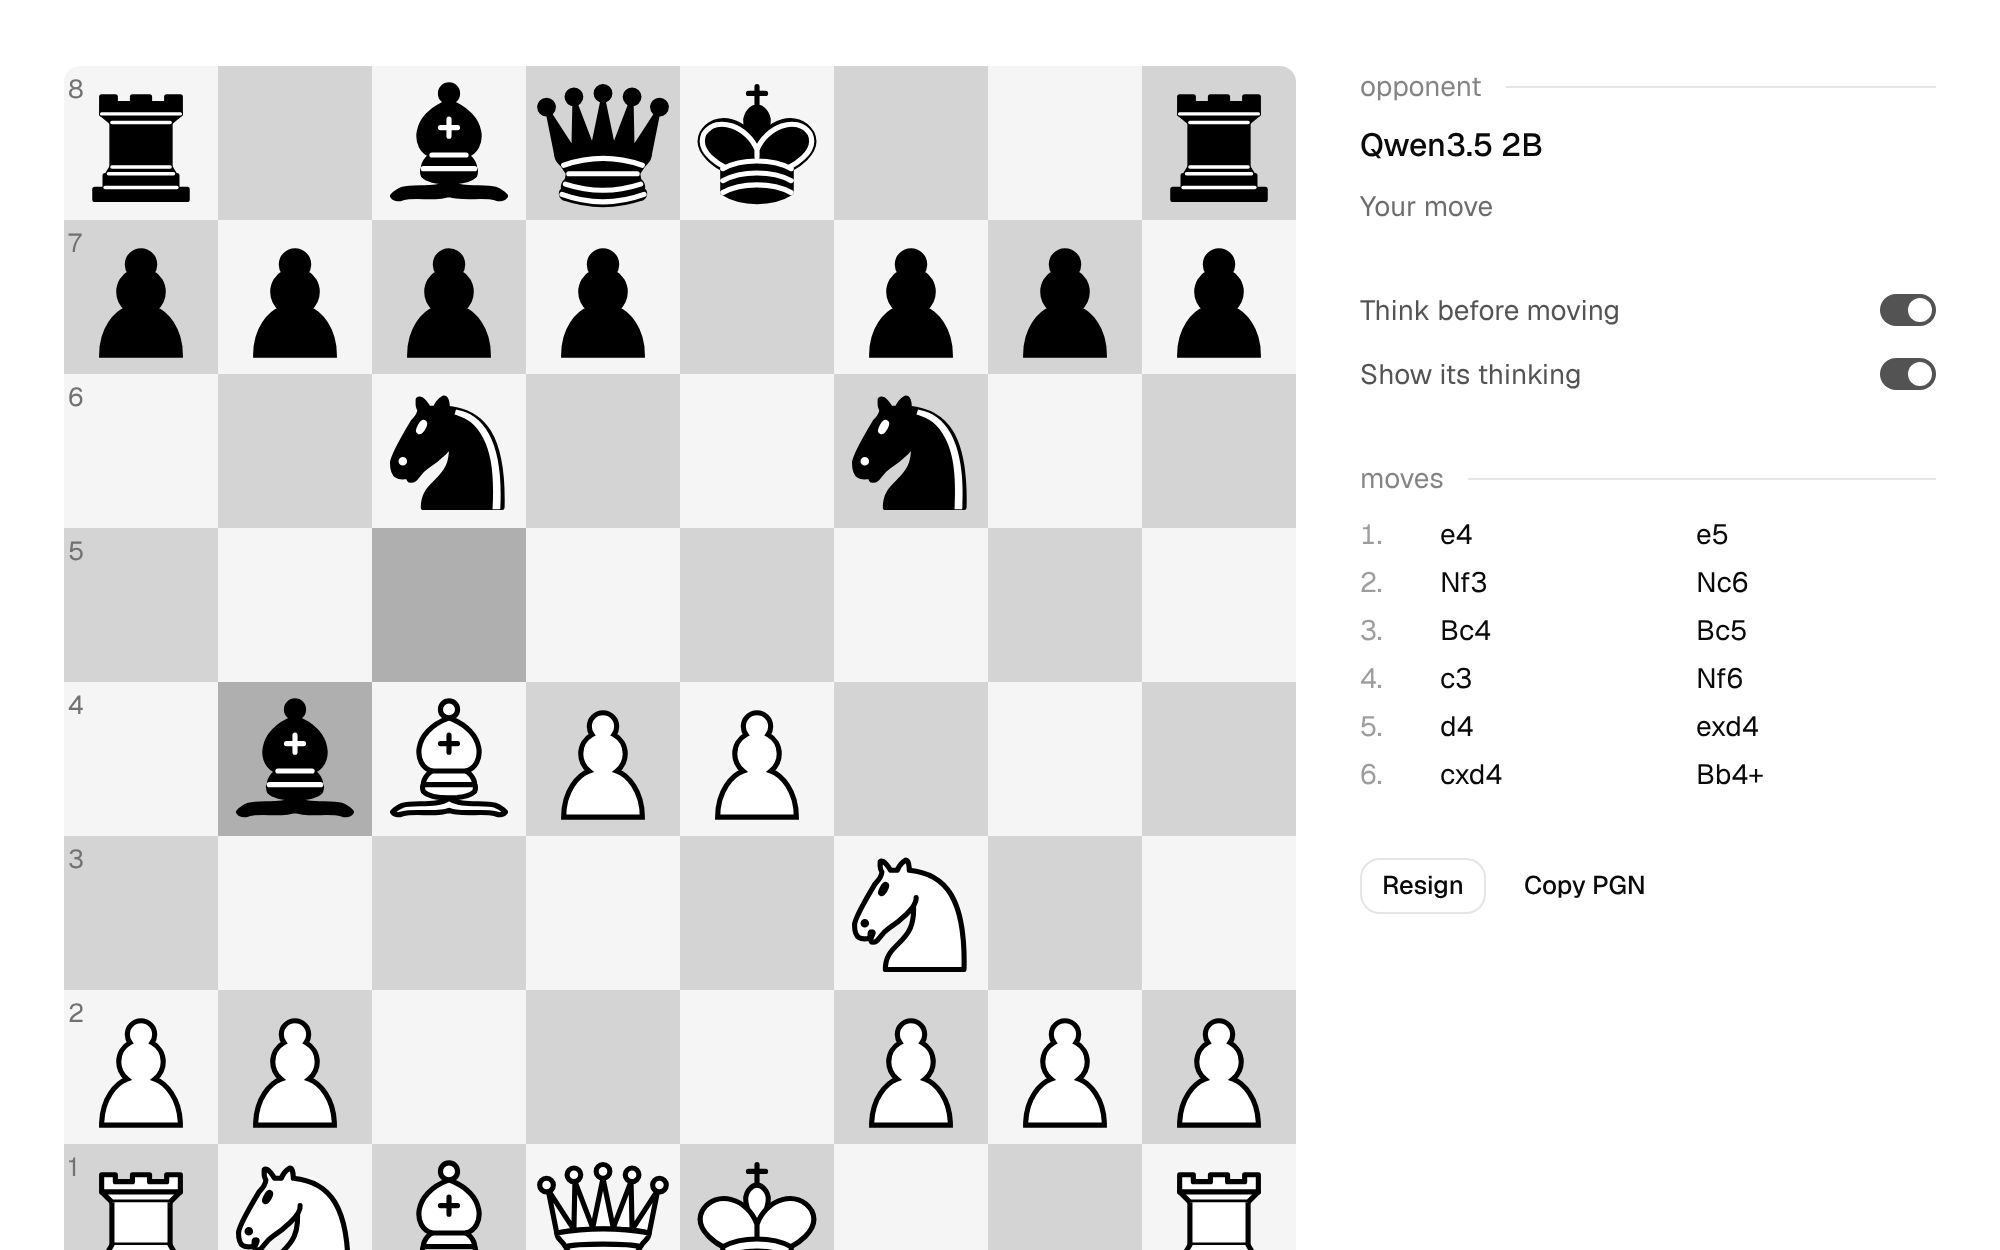
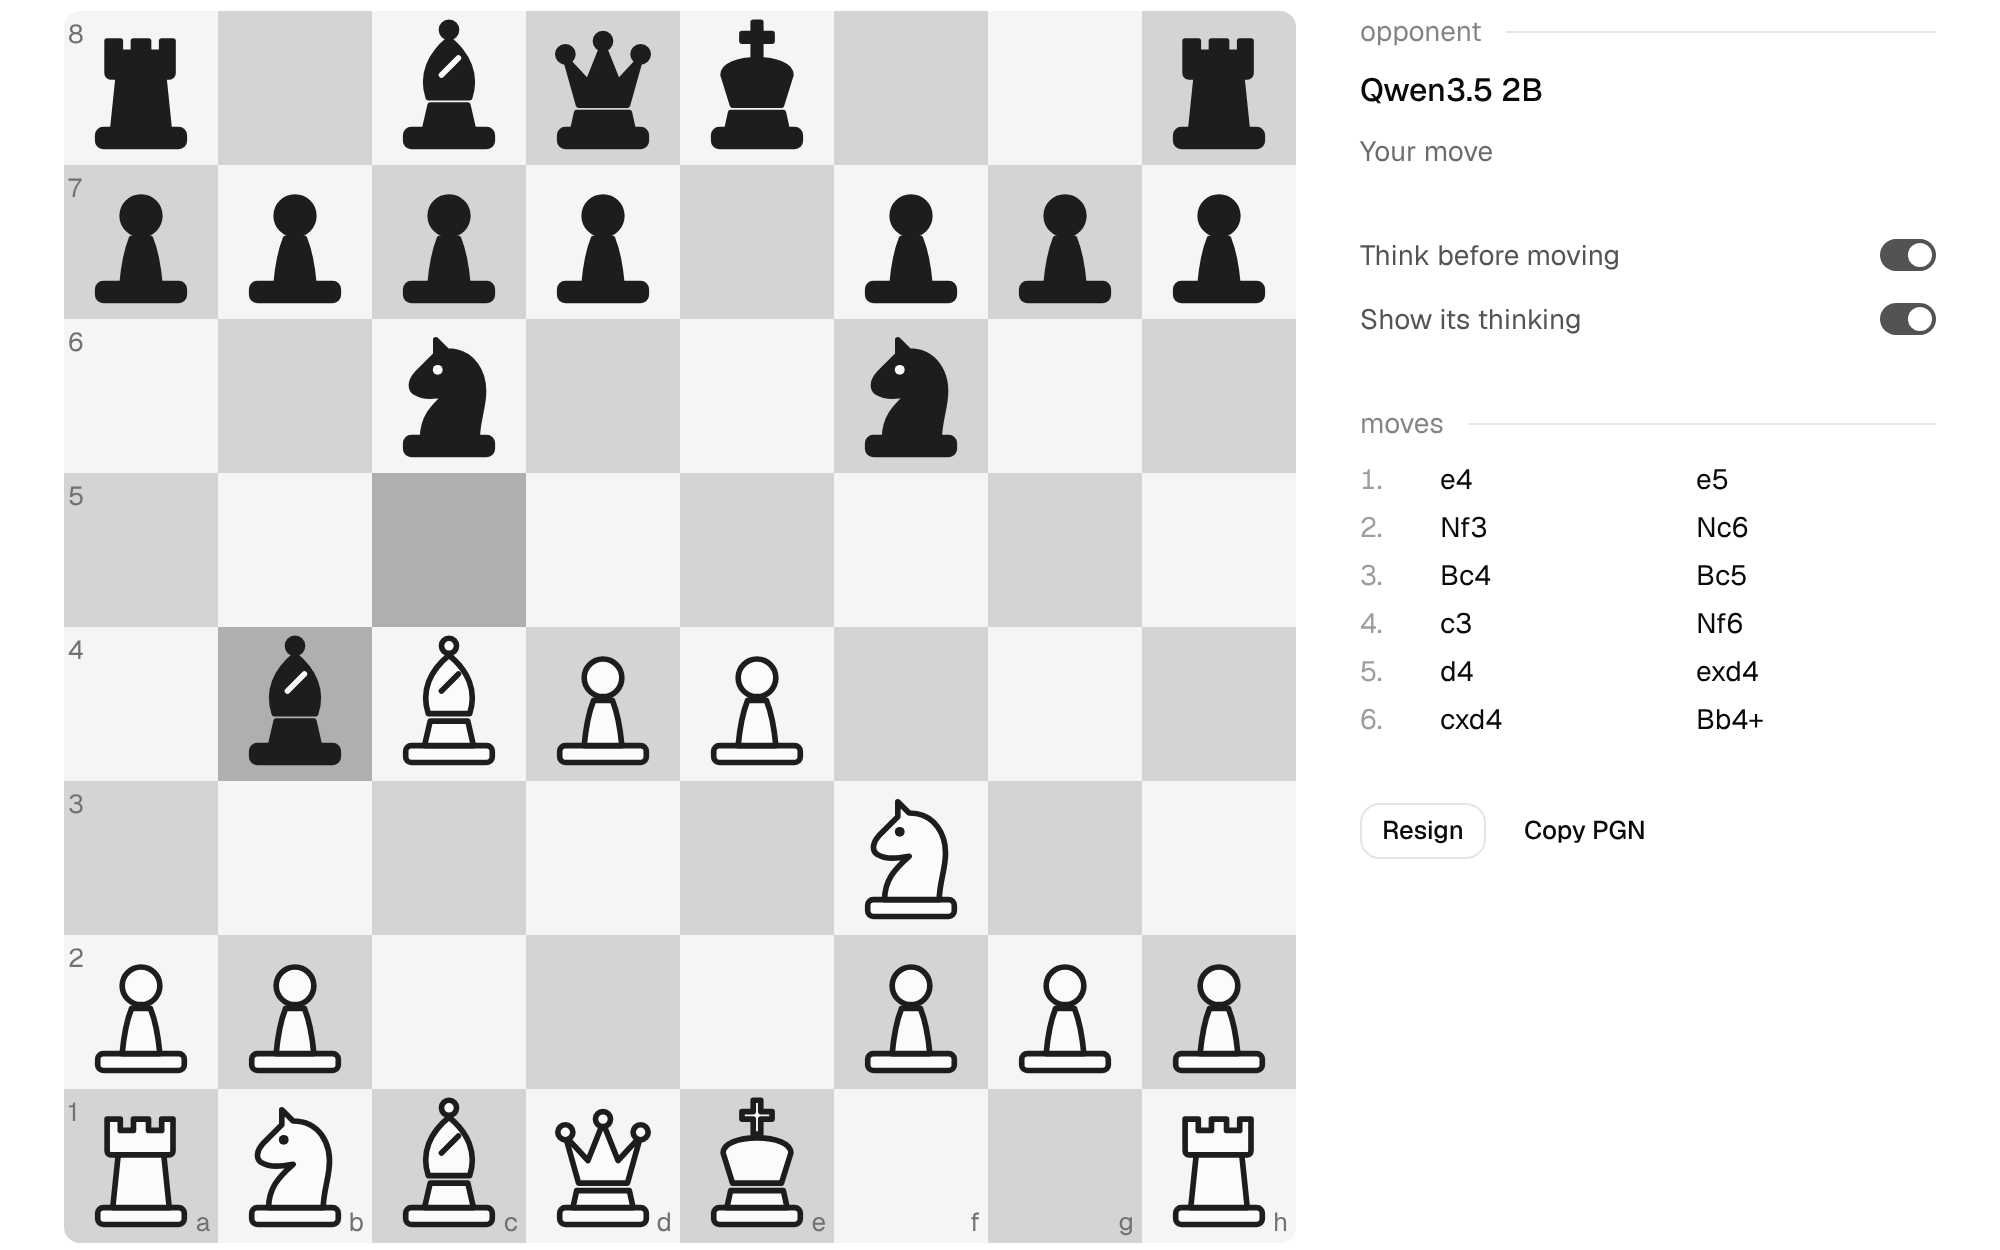
Draw the chess pieces as a minimal flat set
Replaces react-chessboard's default pieces with a set drawn for the site:
simple geometric shapes, outlined white pieces and solid black ones, which
read on both the light and dark boards. The development page preview is
updated to match.

Claude-Session: https://claude.ai/code/session_01HGKG6U7k8wdaAMMQaDu5Q7

diff --git a/workspaces/web/app/components/chess/pieces.tsx b/workspaces/web/app/components/chess/pieces.tsx
@@ -1,0 +1,99 @@
+import type { PieceRenderObject } from 'react-chessboard';
+
+// A flat, minimal piece set drawn for this site: white pieces are outlined,
+// black pieces are solid, and both read on the light and dark boards.
+
+const INK = '#1d1d1f';
+const PAPER = '#fbfbfb';
+
+const BASE =
+	'M12.5 33.5h20a1.5 1.5 0 0 1 1.5 1.5v1.5a1.5 1.5 0 0 1-1.5 1.5h-20a1.5 1.5 0 0 1-1.5-1.5V35a1.5 1.5 0 0 1 1.5-1.5Z';
+const SKIRT = 'M14.5 33.5 15.5 29h14l1 4.5Z';
+const dot = (x: number, y: number, r: number) =>
+	`M${x} ${y - r}a${r} ${r} 0 1 1 0 ${2 * r} ${r} ${r} 0 0 1 0-${2 * r}Z`;
+
+// Each piece is filled shapes plus fine lines drawn in the opposite color.
+const SHAPES: Record<string, { shapes: string[]; lines?: string[] }> = {
+	p: {
+		shapes: [BASE, 'M17.5 33.5C18 28 19 24 20 21.5h5c1 2.5 2 6.5 2.5 12Z', dot(22.5, 15.5, 5)]
+	},
+	r: {
+		shapes: [
+			BASE,
+			'M15 33.5 16.5 19h12L30 33.5Z',
+			'M13.5 10h3.5v3h3.5v-3h4v3h3.5v-3H31v8.5a1 1 0 0 1-1 1H14.5a1 1 0 0 1-1-1Z'
+		]
+	},
+	b: {
+		shapes: [
+			BASE,
+			'M16 33.5 17.5 27h10l1.5 6.5Z',
+			'M22.5 9.5c5 4 7.5 9.5 5.5 15.5H17c-2-6 .5-11.5 5.5-15.5Z',
+			dot(22.5, 7, 2)
+		],
+		lines: ['M25 14.5 20.5 19']
+	},
+	n: {
+		shapes: [
+			BASE,
+			'M30 33.5H15.5c0-5 2.5-8 6.5-11.5-3 .5-6 1-8.5-.5-1.5-1-1.2-3.2.5-5L19 11.5v-4l3 3c6.5 0 10.5 5.5 9.5 13-.4 3.4-1.5 6.5-1.5 10Z'
+		],
+		lines: ['M19.5 15.5h.01']
+	},
+	q: {
+		shapes: [
+			BASE,
+			SKIRT,
+			'M12.5 14.5 16 27h13l3.5-12.5-6 6.5-4-10-4 10Z',
+			dot(12.5, 13.5, 2),
+			dot(22.5, 10, 2),
+			dot(32.5, 13.5, 2)
+		]
+	},
+	k: {
+		shapes: [
+			BASE,
+			SKIRT,
+			'M13.5 19c0-2.5 4-4 9-4s9 1.5 9 4L29 27H16Z',
+			'M21.5 5h2v3h3v2h-3v4h-2v-4h-3V8h3Z'
+		]
+	}
+};
+
+function piece(type: string, white: boolean) {
+	const { shapes, lines = [] } = SHAPES[type];
+	return function Piece() {
+		return (
+			<svg viewBox="0 0 45 45" width="100%" height="100%">
+				<g transform="translate(22.5 22) scale(1.1) translate(-22.5 -22)">
+					{shapes.map((d) => (
+						<path
+							key={d}
+							d={d}
+							fill={white ? PAPER : INK}
+							stroke={INK}
+							strokeWidth={1.5}
+							strokeLinejoin="round"
+						/>
+					))}
+					{lines.map((d) => (
+						<path
+							key={d}
+							d={d}
+							fill="none"
+							stroke={white ? INK : PAPER}
+							strokeWidth={d.endsWith('h.01') ? 2.6 : 1.5}
+							strokeLinecap="round"
+						/>
+					))}
+				</g>
+			</svg>
+		);
+	};
+}
+
+export const PIECES: PieceRenderObject = {};
+for (const type of Object.keys(SHAPES)) {
+	PIECES[`w${type.toUpperCase()}`] = piece(type, true);
+	PIECES[`b${type.toUpperCase()}`] = piece(type, false);
+}

diff --git a/workspaces/web/app/components/chess/Board.tsx b/workspaces/web/app/components/chess/Board.tsx
@@ -2,10 +2,11 @@ import type { Chess, Square } from 'chess.js';
 import { useState, type CSSProperties } from 'react';
 import { Chessboard, type ChessboardOptions } from 'react-chessboard';
 import type { Mention } from '~/lib/chess/mentions';
+import { PIECES } from './pieces';
 
 // The board, drawn by react-chessboard from chess.js's position. Its colors
 // come from --chess-* in styles/app.css, which follow the light and dark
-// themes. Moves are made by dragging or by clicking a piece and then a square.
+// themes, and its pieces from ./pieces. Moves are made by dragging or by clicking a piece and then a square.
 
 // SVG arrows can't read CSS variables, so this one gray has to read on both
 // the light and dark boards.
@@ -76,6 +77,7 @@ export function Board({
 	const options: ChessboardOptions = {
 		id: 'chess',
 		position: fen,
+		pieces: PIECES,
 		boardOrientation: orientation,
 		allowDragging: canMove,
 		allowDrawingArrows: false,
